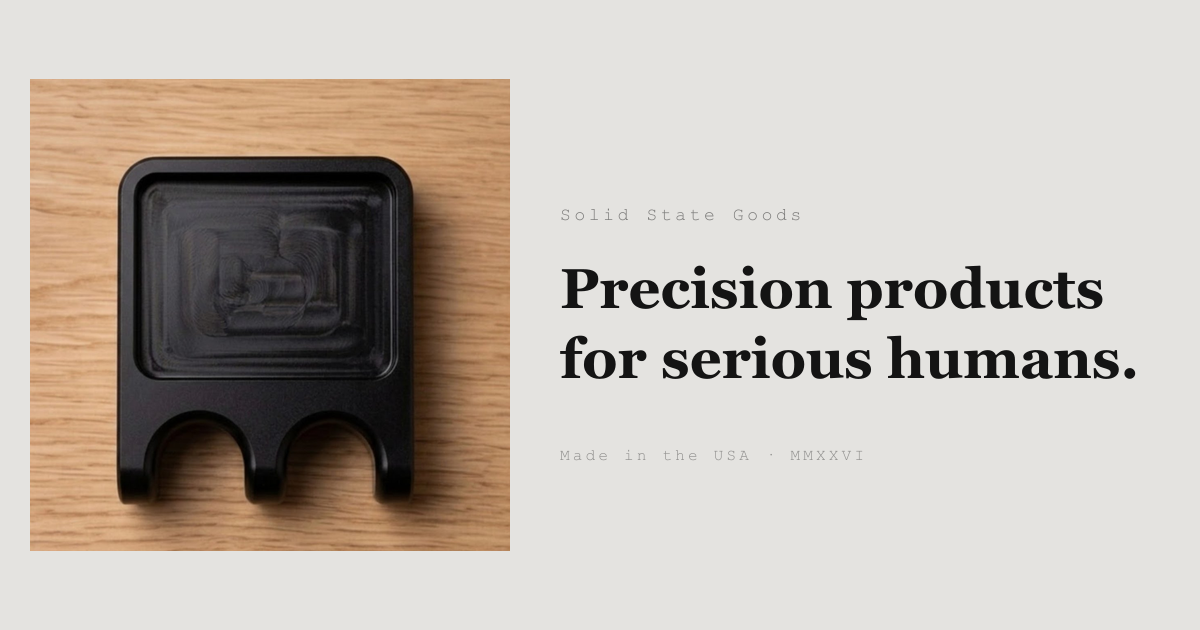
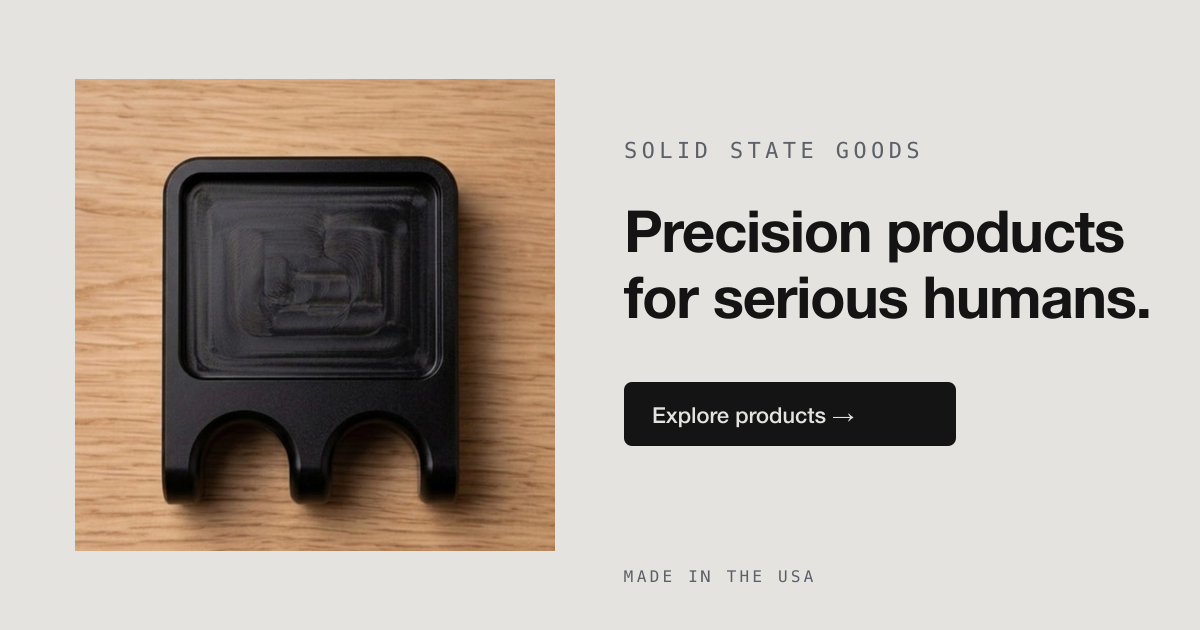
Remove MMXXVI from OG image footer and About page

diff --git a/scripts/generate-og-image.js b/scripts/generate-og-image.js
@@ -9,46 +9,111 @@ const W = 1200;
 const H = 630;
 const BG = '#E4E3E0';
 const INK = '#141414';
+const MUTED = '#5C6068';
 
-// SVG text overlay (right half)
-const textSvg = `
+// Right-half text left edge
+const TX = 624;
+
+// Vertical positions (SVG y = baseline)
+const Y_BRAND    = 158;   // brand label baseline — visual top ~130px from canvas top
+const Y_HEAD1    = 252;   // headline line 1 baseline
+const Y_HEAD2    = 318;   // headline line 2 baseline (58px * 1.1 leading)
+const BTN_TOP    = 382;   // CTA button top edge
+const BTN_H      = 64;
+const BTN_W      = 332;   // wide enough for "Explore products →" at 22px + 56px h-padding
+const Y_BTN_TEXT = BTN_TOP + Math.round(BTN_H / 2) + 9; // vertically centred baseline
+const Y_FOOTER   = H - 48; // footer baseline, ~48px from bottom
+
+// Monospace and sans-serif font stacks — these are reliably present on macOS
+const MONO = "'Menlo', 'Monaco', 'Courier New', monospace";
+const SANS = "'Helvetica Neue', 'Arial', sans-serif";
+
+const svgText = `
 <svg width="${W}" height="${H}" xmlns="http://www.w3.org/2000/svg">
-  <style>
-    .label { font-family: 'Courier New', Courier, monospace; font-size: 18px; letter-spacing: 0.2em; fill: ${INK}; opacity: 0.5; text-transform: uppercase; }
-    .headline { font-family: Georgia, 'Times New Roman', serif; font-size: 56px; font-weight: bold; fill: ${INK}; }
-    .sub { font-family: 'Courier New', Courier, monospace; font-size: 16px; letter-spacing: 0.2em; fill: ${INK}; opacity: 0.4; text-transform: uppercase; }
-  </style>
-  <!-- Top label -->
-  <text x="560" y="220" class="label">Solid State Goods</text>
-  <!-- Main headline — split across two lines -->
-  <text x="560" y="308" class="headline">Precision products</text>
-  <text x="560" y="378" class="headline">for serious humans.</text>
-  <!-- Bottom label -->
-  <text x="560" y="460" class="sub">Made in the USA · MMXXVI</text>
+
+  <!-- Brand label -->
+  <text
+    x="${TX}" y="${Y_BRAND}"
+    font-family="${MONO}"
+    font-size="22"
+    font-weight="normal"
+    fill="${MUTED}"
+    letter-spacing="4.4"
+  >SOLID STATE GOODS</text>
+
+  <!-- Headline line 1 -->
+  <text
+    x="${TX}" y="${Y_HEAD1}"
+    font-family="${SANS}"
+    font-size="58"
+    font-weight="700"
+    fill="${INK}"
+    letter-spacing="-1.16"
+  >Precision products</text>
+
+  <!-- Headline line 2 -->
+  <text
+    x="${TX}" y="${Y_HEAD2}"
+    font-family="${SANS}"
+    font-size="58"
+    font-weight="700"
+    fill="${INK}"
+    letter-spacing="-1.16"
+  >for serious humans.</text>
+
+  <!-- CTA button background -->
+  <rect
+    x="${TX}" y="${BTN_TOP}"
+    width="${BTN_W}" height="${BTN_H}"
+    rx="8"
+    fill="${INK}"
+  />
+
+  <!-- CTA button text — centred vertically in the rect, 28px left padding -->
+  <text
+    x="${TX + 28}" y="${Y_BTN_TEXT}"
+    font-family="${SANS}"
+    font-size="22"
+    font-weight="600"
+    fill="${BG}"
+  >Explore products &#x2192;</text>
+
+  <!-- Footer line -->
+  <text
+    x="${TX}" y="${Y_FOOTER}"
+    font-family="${MONO}"
+    font-size="16"
+    font-weight="normal"
+    fill="${MUTED}"
+    letter-spacing="3.2"
+  >MADE IN THE USA</text>
+
 </svg>
 `.trim();
 
-// Background canvas
-const bg = await sharp({
-  create: { width: W, height: H, channels: 3, background: BG },
-}).png();
-
-// Product image: resize to ~500px wide, fit within left half with padding
+// ── Product image ──────────────────────────────────────────────────────────────
+// Resize to fit inside 480×480, preserving the original wood-grain background.
 const productBuf = await sharp(path.join(publicDir, 'anodized_black.png'))
-  .resize({ width: 480, height: 550, fit: 'contain', background: BG })
+  .resize({ width: 480, height: 480, fit: 'inside' })
   .png()
   .toBuffer();
 
-// Text SVG → buffer
-const textBuf = Buffer.from(textSvg);
+const { height: prodH } = await sharp(productBuf).metadata();
+const prodLeft = 75;
+const prodTop  = Math.round((H - prodH) / 2);
 
-await bg
+// ── Composite ─────────────────────────────────────────────────────────────────
+// Start with a pure flat-fill background — no gradient, no tint, no alpha.
+await sharp({
+  create: { width: W, height: H, channels: 3, background: BG },
+})
+  .png()
   .composite([
-    // Product photo: left side, vertically centred
-    { input: productBuf, left: 30, top: Math.round((H - 550) / 2) },
-    // Text overlay
-    { input: textBuf, left: 0, top: 0 },
+    { input: productBuf, left: prodLeft, top: prodTop },
+    { input: Buffer.from(svgText), left: 0, top: 0 },
   ])
   .toFile(path.join(publicDir, 'og-image.png'));
 
-console.log('✓ og-image.png written to public/');
+// Verify dimensions
+const { width, height } = await sharp(path.join(publicDir, 'og-image.png')).metadata();
+console.log(`✓ og-image.png written — ${width}×${height}`);

diff --git a/src/App.tsx b/src/App.tsx
@@ -330,8 +330,7 @@ const Philosophy = () => (
 
             {/* Inscribed plate beneath the logo */}
             <div className="mt-4 flex items-center justify-between type-micro text-ink/40">
-              <span>Est. MMXXVI</span>
-              <span className="hidden sm:inline">Solid · State · Goods</span>
+              <span>Solid · State · Goods</span>
               <span>Made in USA</span>
             </div>
           </div>
